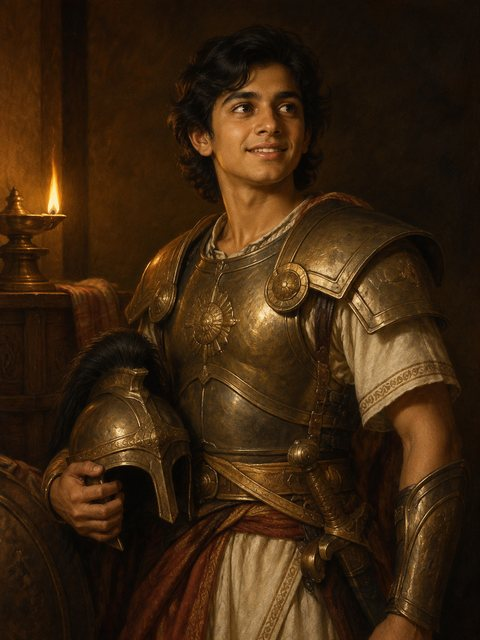
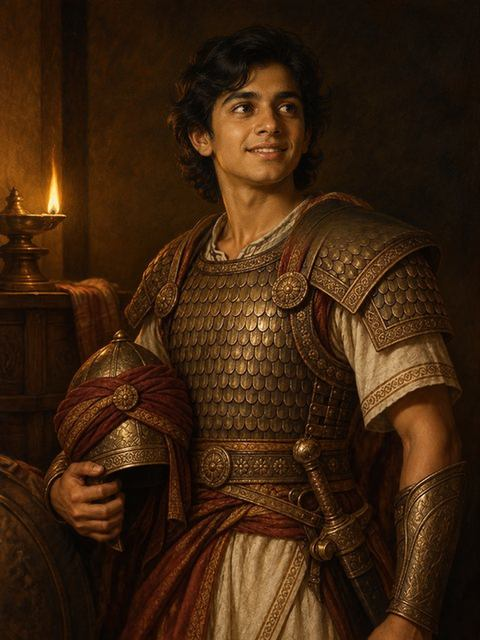
Install the 11 corrections: camp gate without the eclipse (now with a 16:9 painting), Drupada's gate, swayamvara pillars, Abhimanyu's armour, Vidura's stylus, the friendship moments, the torana
Claude-Session: https://claude.ai/code/session_01DrwgjFnbaUxyrRnruaH4iX

diff --git a/game/js/ui/dom.js b/game/js/ui/dom.js
@@ -72,7 +72,7 @@
   // The file a painting shows from behind the page: tall on upright screens, wide where painted.
   // Fight backgrounds painted only tall so far: on wide screens a test played on one shows the
   // nearest wide painting instead (until the 16:9 versions arrive).
-  const FIGHT_WIDE = {}; // every fight background now has its own 16:9 painting (31 Oct), except the camp gate
+  const FIGHT_WIDE = {}; // every fight background now has its own 16:9 painting (31 Oct), the camp gate too
   U.wideOf = (key) => (!U.upright() && FIGHT_WIDE[key]) || key;
   U.stripOf = (key) => FIGHT_WIDE[key] || key;
   U.bgUrl = (key) => { if (!key) return null; key = U.wideOf(key); return U.artUrl(TALL.has(key) && U.upright() ? key + "_tall" : WIDE.has(key) ? key + "_wide" : key); };

diff --git a/game/js/ui/battle.js b/game/js/ui/battle.js
@@ -312,7 +312,7 @@
       if (deep) {
         const bg = FIGHT_BG[enc.id];
         // The fight's own background: tall on upright screens, its 16:9 painting on wide ones (all but the camp gate).
-        U.setBackdrop(bg && (U.upright() ? U.tallOf(bg) : bg !== "fight_camp_gate_night") ? bg : K.val(enc.stage) || K.val(enc.art));
+        U.setBackdrop(bg && (!U.upright() || U.tallOf(bg)) ? bg : K.val(enc.stage) || K.val(enc.art));
       }
       leaf.dataset.battle = B.bid;
       leaf.innerHTML = U.plate({ art: K.val(enc.art), keepArt: deep, caption: K.val(enc.caption), tag: enc.lethal ? "war" : "yours", tagText: K.tr(enc.lethal ? "Battle · you can die here" : "A fight"), heading: K.val(enc.title), noFigure: true }) +

diff --git a/art_review/received_31oct_b/README.md b/art_review/received_31oct_b/README.md
@@ -11,3 +11,6 @@ Notes for the artist
 - scene_years_remain (and its wide version): the gate on the far river bank looks like a Japanese torii. Accepted for now to match the painting already in the game; worth replacing with an Indian gateway (torana) on a later pass.
 - war_day14 keeps its eclipse: that is right for day 14 (the darkened sun of Jayadratha's day) and matches the existing painting.
 - smith3x1/scene_smith (3:1) not used: no screen shows that scene as a strip.
+
+## Corrections received 31 October (11, all accepted)
+fight_camp_gate_night (16:9, new) and _tall: moon instead of the eclipse. fight_drupada_yard_tall: flat tiled gateway roof. fight_swayamvara_tall: carved pillars. p_abhimanyu: scale armour and a turban-wrapped helmet. p_vidura: stylus and palm leaf. moment_friend_bhima: one face only. moment_friend_duryodhana and _tall: oil lamps, the friend dressed plainer than the prince. scene_years_remain and _wide: a torana instead of the torii. The camp gate fight now uses its own 16:9 painting on wide screens.
